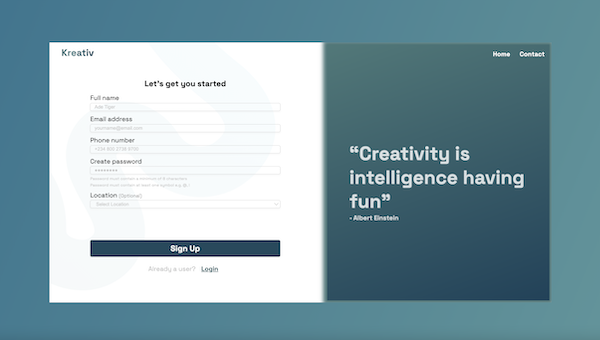
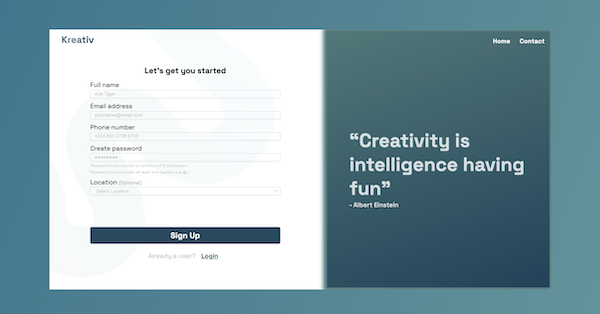
adopted for phone

diff --git a/index.html b/index.html
@@ -21,10 +21,14 @@
         <div class="container">
             <div class="gallery">
                 <div class="gallery__row">
-                    <div class="gallery__item"><a href="./hw3/" target="_blank"><img src="./img/Ukraine.png" alt="Site about Ukraine"></a></div>
-                    <div class="gallery__item"><a href="./hw4/" target="_blank"><img src="./img/GTA.png" alt="Site in GTA style"></a></div>
-                    <div class="gallery__item"><a href="./hw5/" target="_blank"><img src="./img/Stars.png" alt="Site with shined stars"></a></div>
-                    <div class="gallery__item"><a href="./hw6/" target="_blank"><img src="./img/CV.png" alt="Site about one creative designer"></a></div>
+                    <div class="gallery__subrow">
+                        <div class="gallery__item"><a href="./hw3/" target="_blank"><img src="./img/Ukraine.png" alt="Site about Ukraine"></a></div>
+                        <div class="gallery__item"><a href="./hw4/" target="_blank"><img src="./img/GTA.png" alt="Site in GTA style"></a></div>
+                    </div>
+                    <div class="gallery__subrow">
+                        <div class="gallery__item"><a href="./hw5/" target="_blank"><img src="./img/Stars.png" alt="Site with shined stars"></a></div>
+                        <div class="gallery__item"><a href="./hw6/" target="_blank"><img src="./img/CV.png" alt="Site about one creative designer"></a></div>
+                    </div>
                 </div>
                 <div class="gallery__row">
                     <div class="gallery__item_horizontal"><a href="./hw7" target="_blank"><img src="./img/form.png" alt="Form"></a></div>

diff --git a/style.css b/style.css
@@ -54,7 +54,6 @@ h1:hover{
 
 .container{
     width:80%;
-    min-width: 732px;
     margin: 3% auto;
 }
 
@@ -64,22 +63,24 @@ h1:hover{
     align-items:flex-end;
 }
 
+.gallery__subrow{
+    display: flex;
+    justify-content: space-around;
+    align-items: flex-end;
+}
+
 .gallery__item, .gallery__item_horizontal{
-    width: 23%;
+    width: 48%;
     overflow: hidden;
     margin: 2%;
     transition: all 1s;
-} 
+}
 
 .gallery__item_horizontal{
     width:48%;
 }
 
-.gallery__item:hover{
-    width: 28%;
-}
-
-.gallery__item_horizontal:hover{
+.gallery__item:hover,.gallery__item_horizontal:hover{
     width: 55%;
 }
 
@@ -103,4 +104,24 @@ footer a{
 footer:hover{
     padding: 12px;
     font-size: 3rem;
+}
+
+@media screen and (max-width:750px){
+    :root{
+        font-size: 8px;
+    }
+    .gallery__row{
+        display: block;
+    }
+    .gallery__item_horizontal{
+        width:95%;
+    }
+    .gallery__item_horizontal:hover{
+        width:100%;
+    }
+    footer:hover{
+        padding: 12px;
+        font-size: 1.5rem;
+    }
+    
 }
